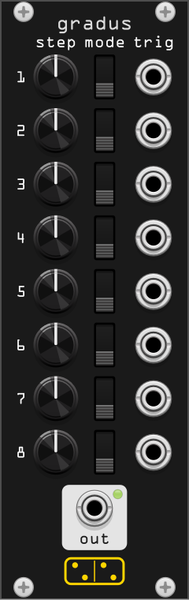
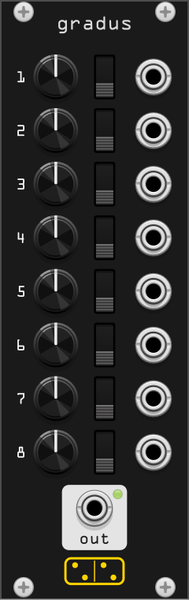
fix(gradus): drop the column headings
step / mode / trig sat 1.5mm from each other, 1.1mm under the title and
1.5mm above the first switch: legal by the audit, packed to the eye. Eight
identical rows do not need their columns named once at the top.

The rows stay where they were. The band the headings occupied is left as
air under the title rather than redistributed over the panel, which is the
breathing room around the title that the layout rules allow for.

diff --git a/src/gradus.cpp b/src/gradus.cpp
@@ -188,9 +188,6 @@ struct GradusWidget : ModuleWidget {
 // @elem TRIG8_INPUT PJ301MPort 4.01 input "" 0.0
 // @elem CV_OUTPUT PJ301MPort 4.01 output "" 0.0
 // @elem LEVEL_LIGHT SmallLight 1.0 light "" 0.0
-// @elem LABEL_STEP label 0.0 label "step" 0.0 12.00 10.00
-// @elem LABEL_MODE label 0.0 label "mode" 0.0 22.50 10.00
-// @elem LABEL_TRIG label 0.0 label "trig" 0.0 33.00 10.00
 // @elem LABEL_ROW1 label 0.0 label "1" 0.0 4.50 17.50
 // @elem LABEL_ROW2 label 0.0 label "2" 0.0 4.50 29.00
 // @elem LABEL_ROW3 label 0.0 label "3" 0.0 4.50 40.50

diff --git a/doc/gradus.md b/doc/gradus.md
@@ -12,17 +12,22 @@ walks a lattice of values you chose rather than sliding between them.
 
 ## The panel
 
-Eight rows, numbered 1 at the top to 8 at the bottom. Each row is three
-things:
+Eight rows, numbered 1 at the top to 8 at the bottom. Every row is the same
+three things, left to right:
 
-| column | what it is |
-|--------|-----------|
-| **step** | the row's value, 0V to 10V. A step size in add and subtract, an absolute target in jump. |
-| **mode** | what the row does when it fires: **add** (up), **jump** (middle), **subtract** (down). |
-| **trig** | the row's trigger input. |
+| control | what it is |
+|---------|-----------|
+| **knob** | the row's value, 0V to 10V. A step size in add and subtract, an absolute target in jump. |
+| **switch** | what the row does when it fires: **add** (up), **jump** (middle), **subtract** (down). |
+| **jack** | the row's trigger input. |
 
-Below them, **out** carries the running value, with a lamp showing how high
-it sits in its range.
+The columns carry no printed headings, since eight identical rows do not
+need them repeated and the panel reads better without. Hovering any control
+names it: the knob's tooltip follows its own switch and says whether it is
+showing a step or a target.
+
+Below the rows, **out** carries the running value, with a lamp showing how
+high it sits in its range.
 
 Nothing else: no reset input, because a row in jump mode with its knob at
 zero *is* a reset, and no clock, because gradus never moves on its own.
